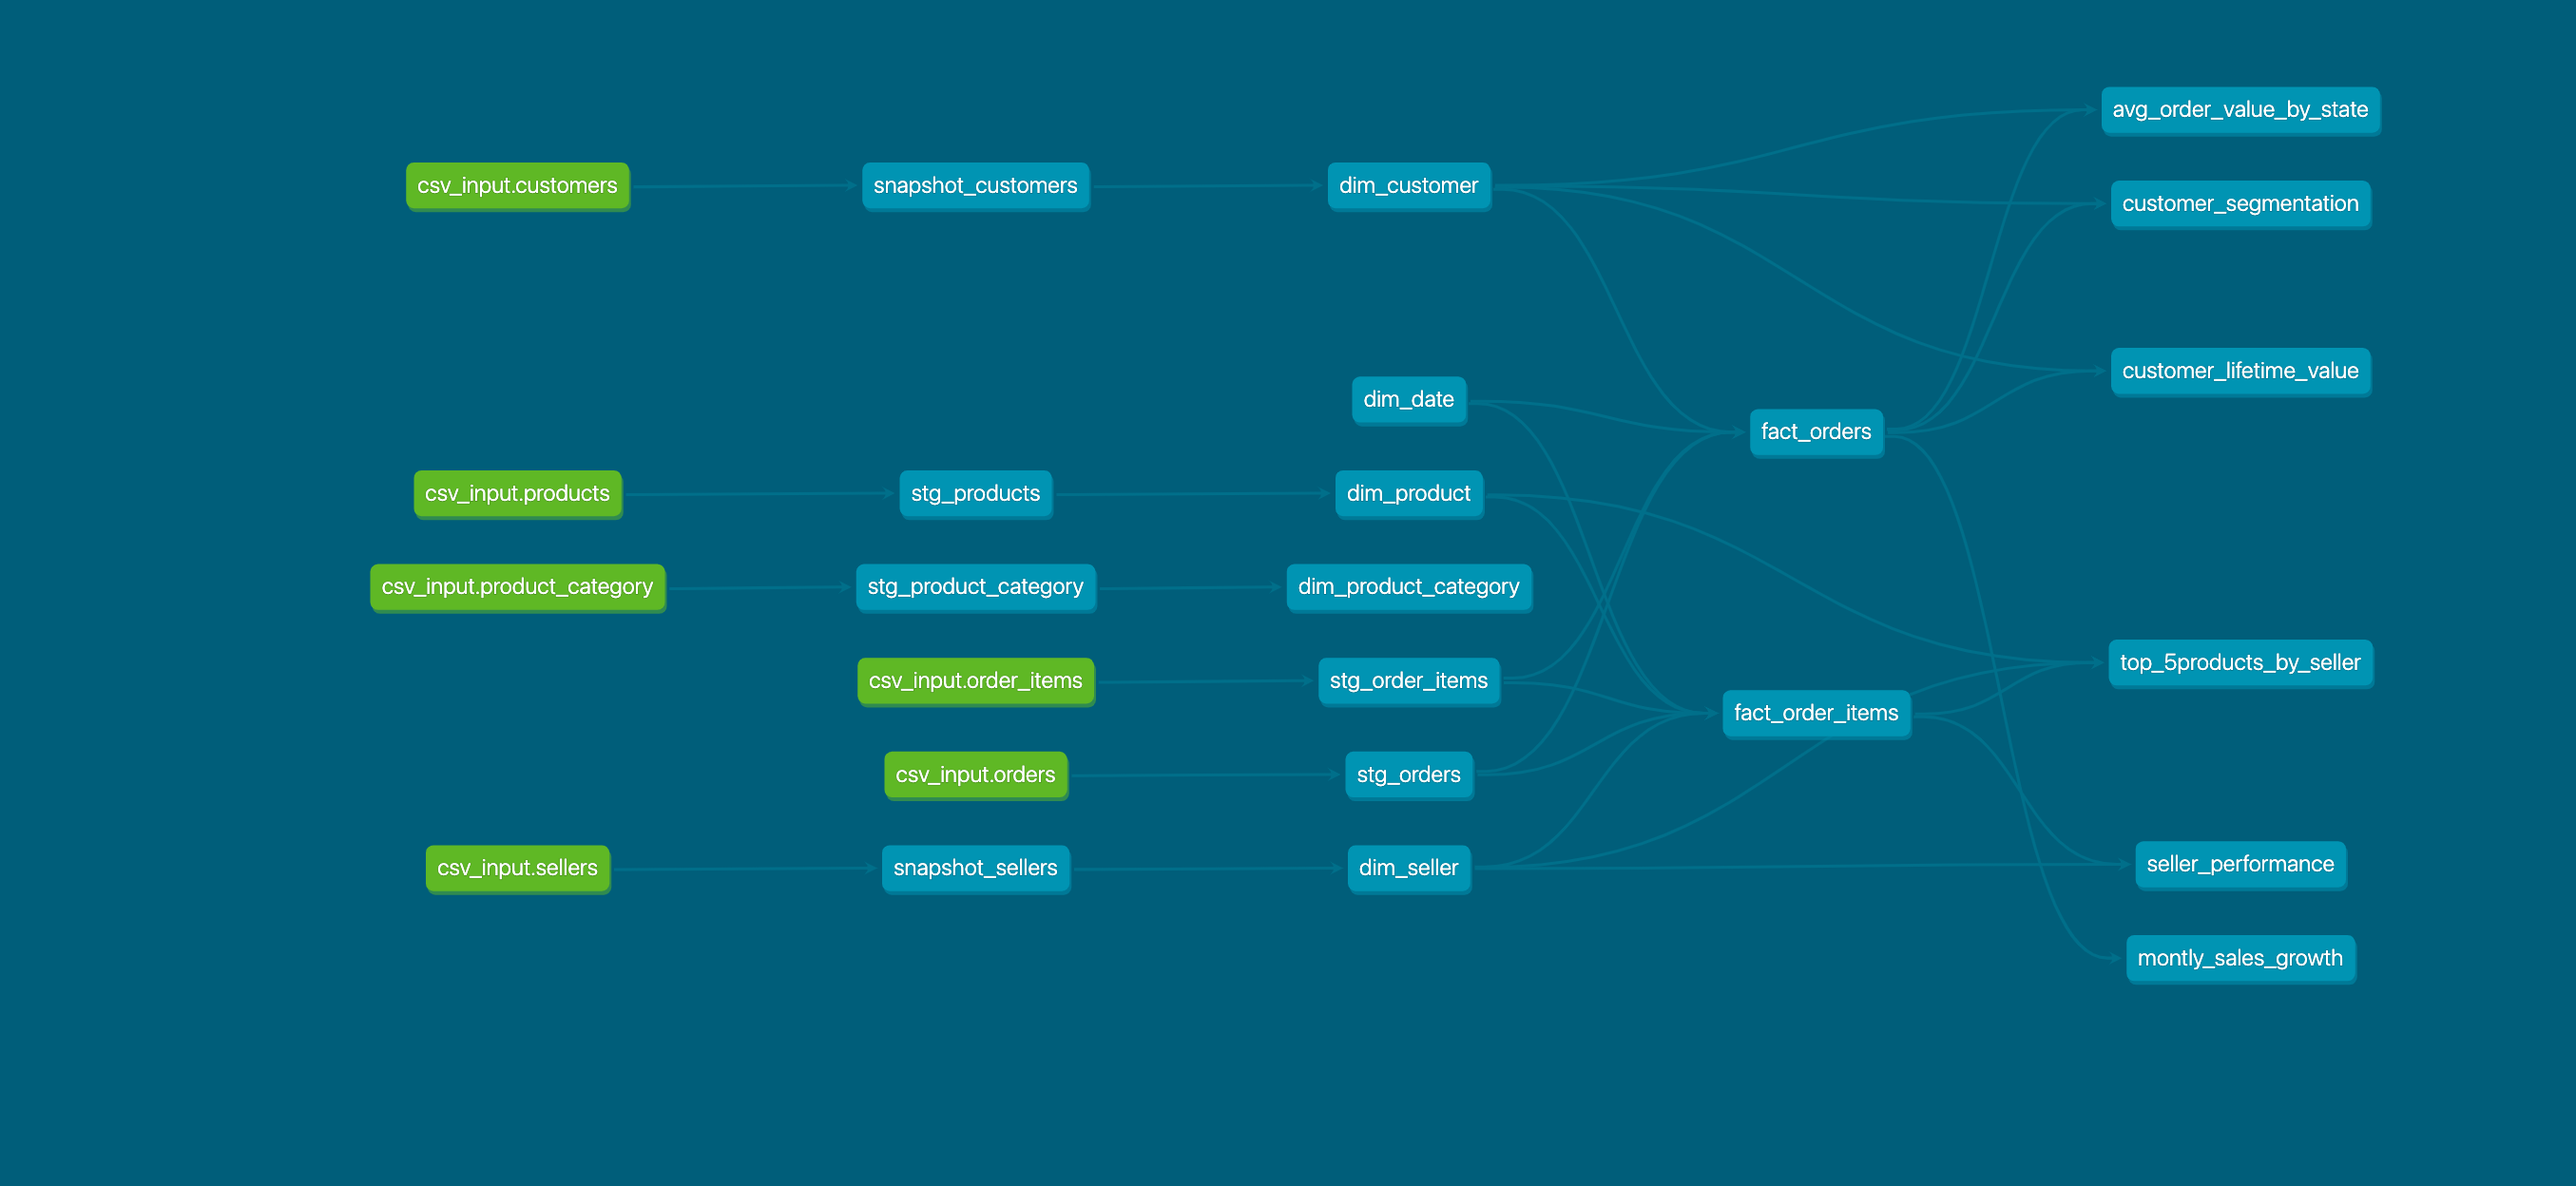
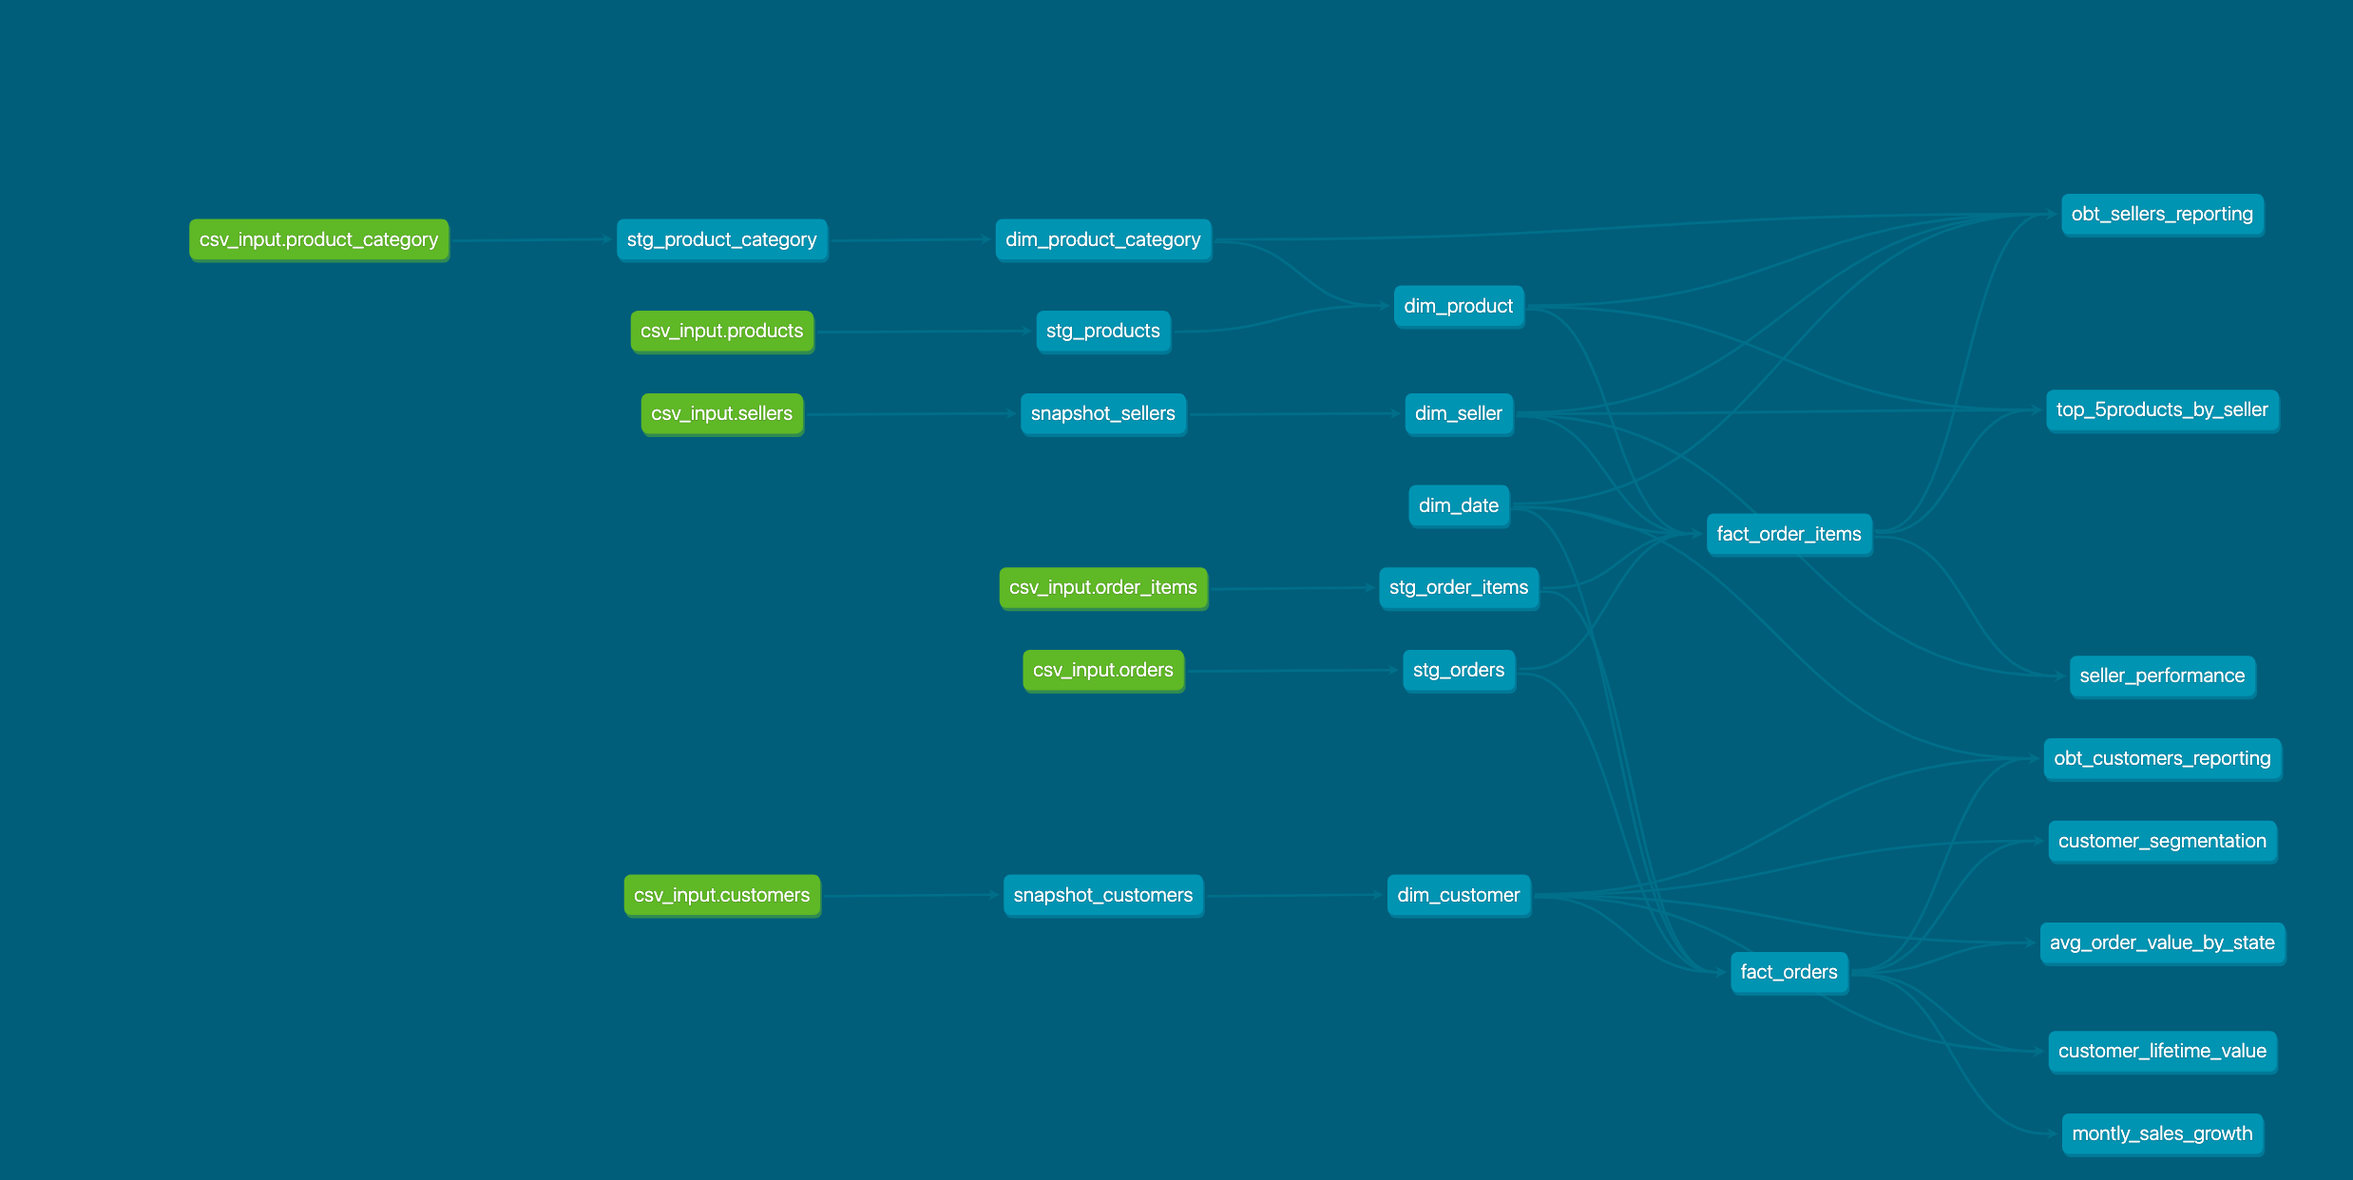
Add OBT models and update README

diff --git a/README.md b/README.md
@@ -43,8 +43,10 @@ The data is structured to support analytics on customer behaviour, product sales
 ---
 
 ## Analytics Data Layers
-* `staging`: Raw Data with light transformation
-* `mart`: Analytics Ready Data
+* `staging`: Raw data with light transformation
+* `mart`: Analytics ready tables
+* `analyses`: View for business related questions
+* `obt`: Pre-joined views for analytics queries.
 
 ---
 
@@ -120,6 +122,24 @@ dbt docs serve --host 0.0.0.0 --port 8080
 ```
 ---
 
+### Preview Data In postgres
+```bash
+# 1. Open a shell session into the postgres container
+docker exec -it  postgres-db bash
+
+# 2. Connect to the Database with psql
+psql -U $POSTGRES_USER -d retail_analytics
+
+# 3. Explore the Database
+\dn #list all schemas
+\dt mart.* #list all tables in marts schema
+
+# 4. Preview the first 5 rows of dim_customer table.
+SELECT * FROM mart.dim_customer LIMIT 5;
+```
+![](images/data_preview.png)
+
+
 ### DBT Lineage Diagram
 ![](images/dbt-dag.png)
 
@@ -135,6 +155,10 @@ dbt docs serve --host 0.0.0.0 --port 8080
 *   **dbt tags**: Tags are metadata labels that you can apply to your dbt resources, such as models, seeds, and snapshots. They help you organize and categorize your project, allowing you to selectively run or test specific parts of your project.
 
 *   **dbt snapshots**: Snapshots are a powerful feature for capturing and tracking changes to your data over time. They are particularly useful for managing slowly changing dimensions (SCDs), where you need to maintain a historical record of how data has changed.
+
+*   **dbt macros**: Macros in dbt are reusable pieces of SQL code, similar to functions in traditional programming languages. They are defined using the Jinja templating language and allow you to write DRY (Don't Repeat Yourself) code.
+
+*   **dbt packages**: In dbt, packages are standalone dbt projects that contain reusable models, macros, and tests. They are conceptually similar to libraries in programming languages, allowing you to import code from other projects into your own.
 
 *   **dbt analyses**: Analyses in dbt are SQL queries that are used for exploration and ad-hoc analysis. Unlike models, they are not materialized as tables or views in your data warehouse.
 ---
